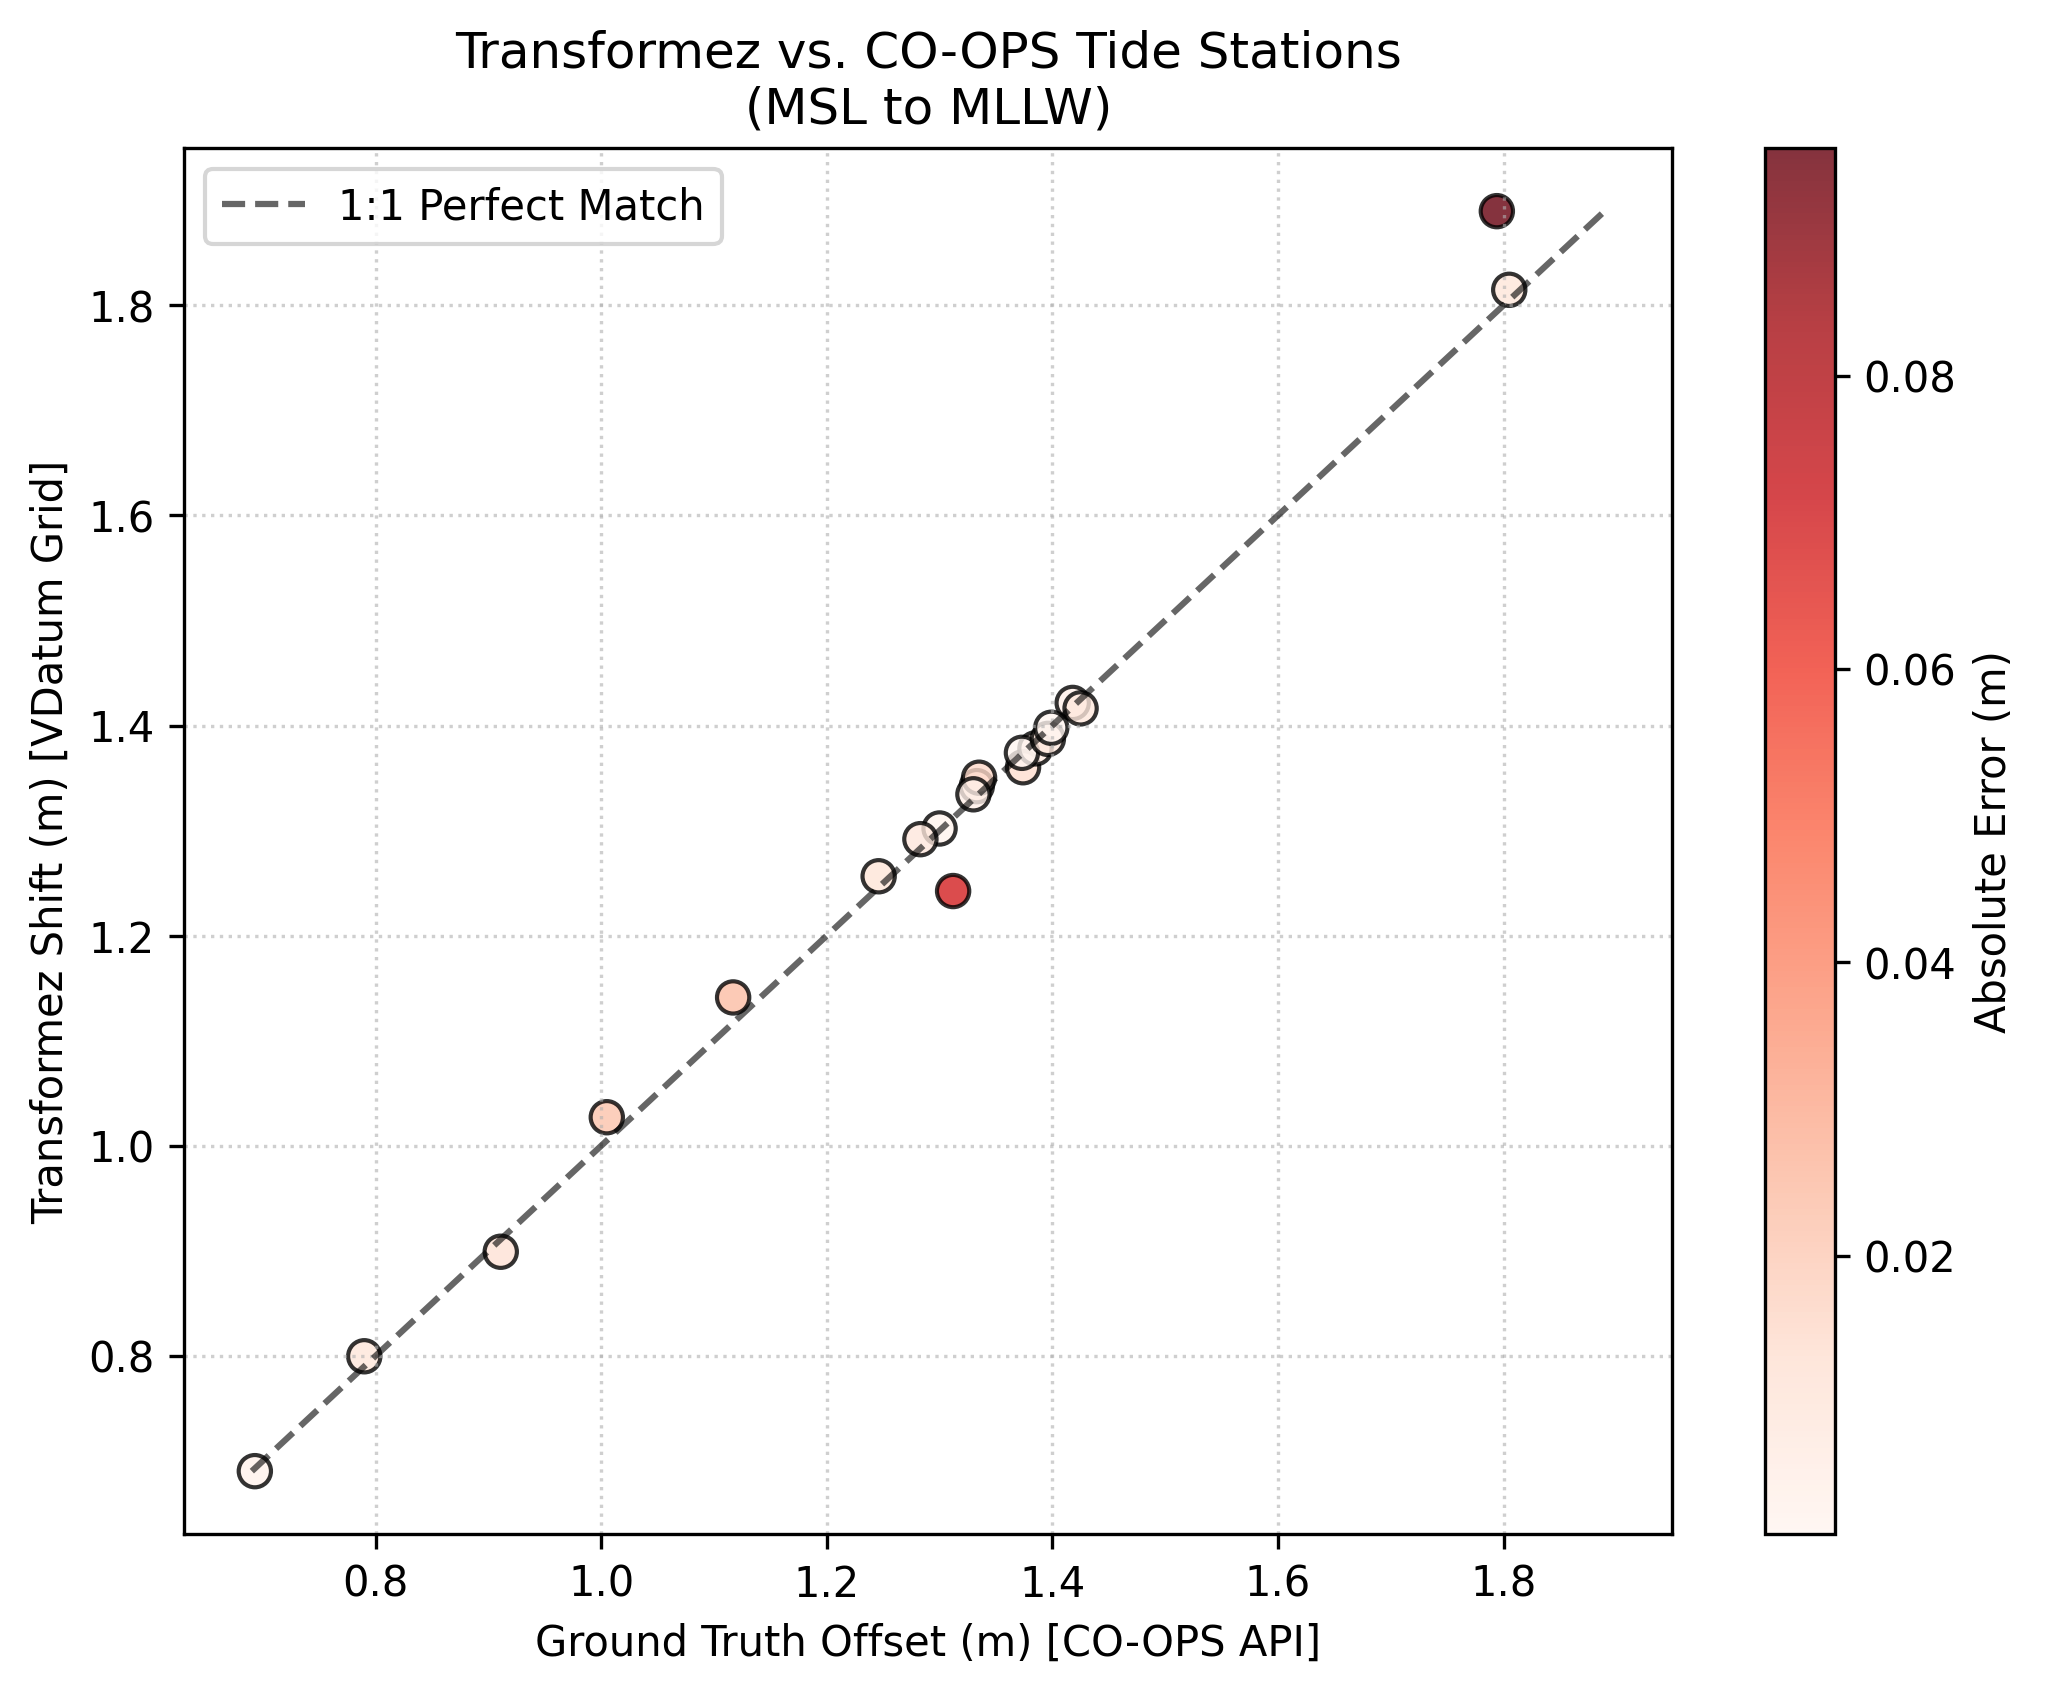
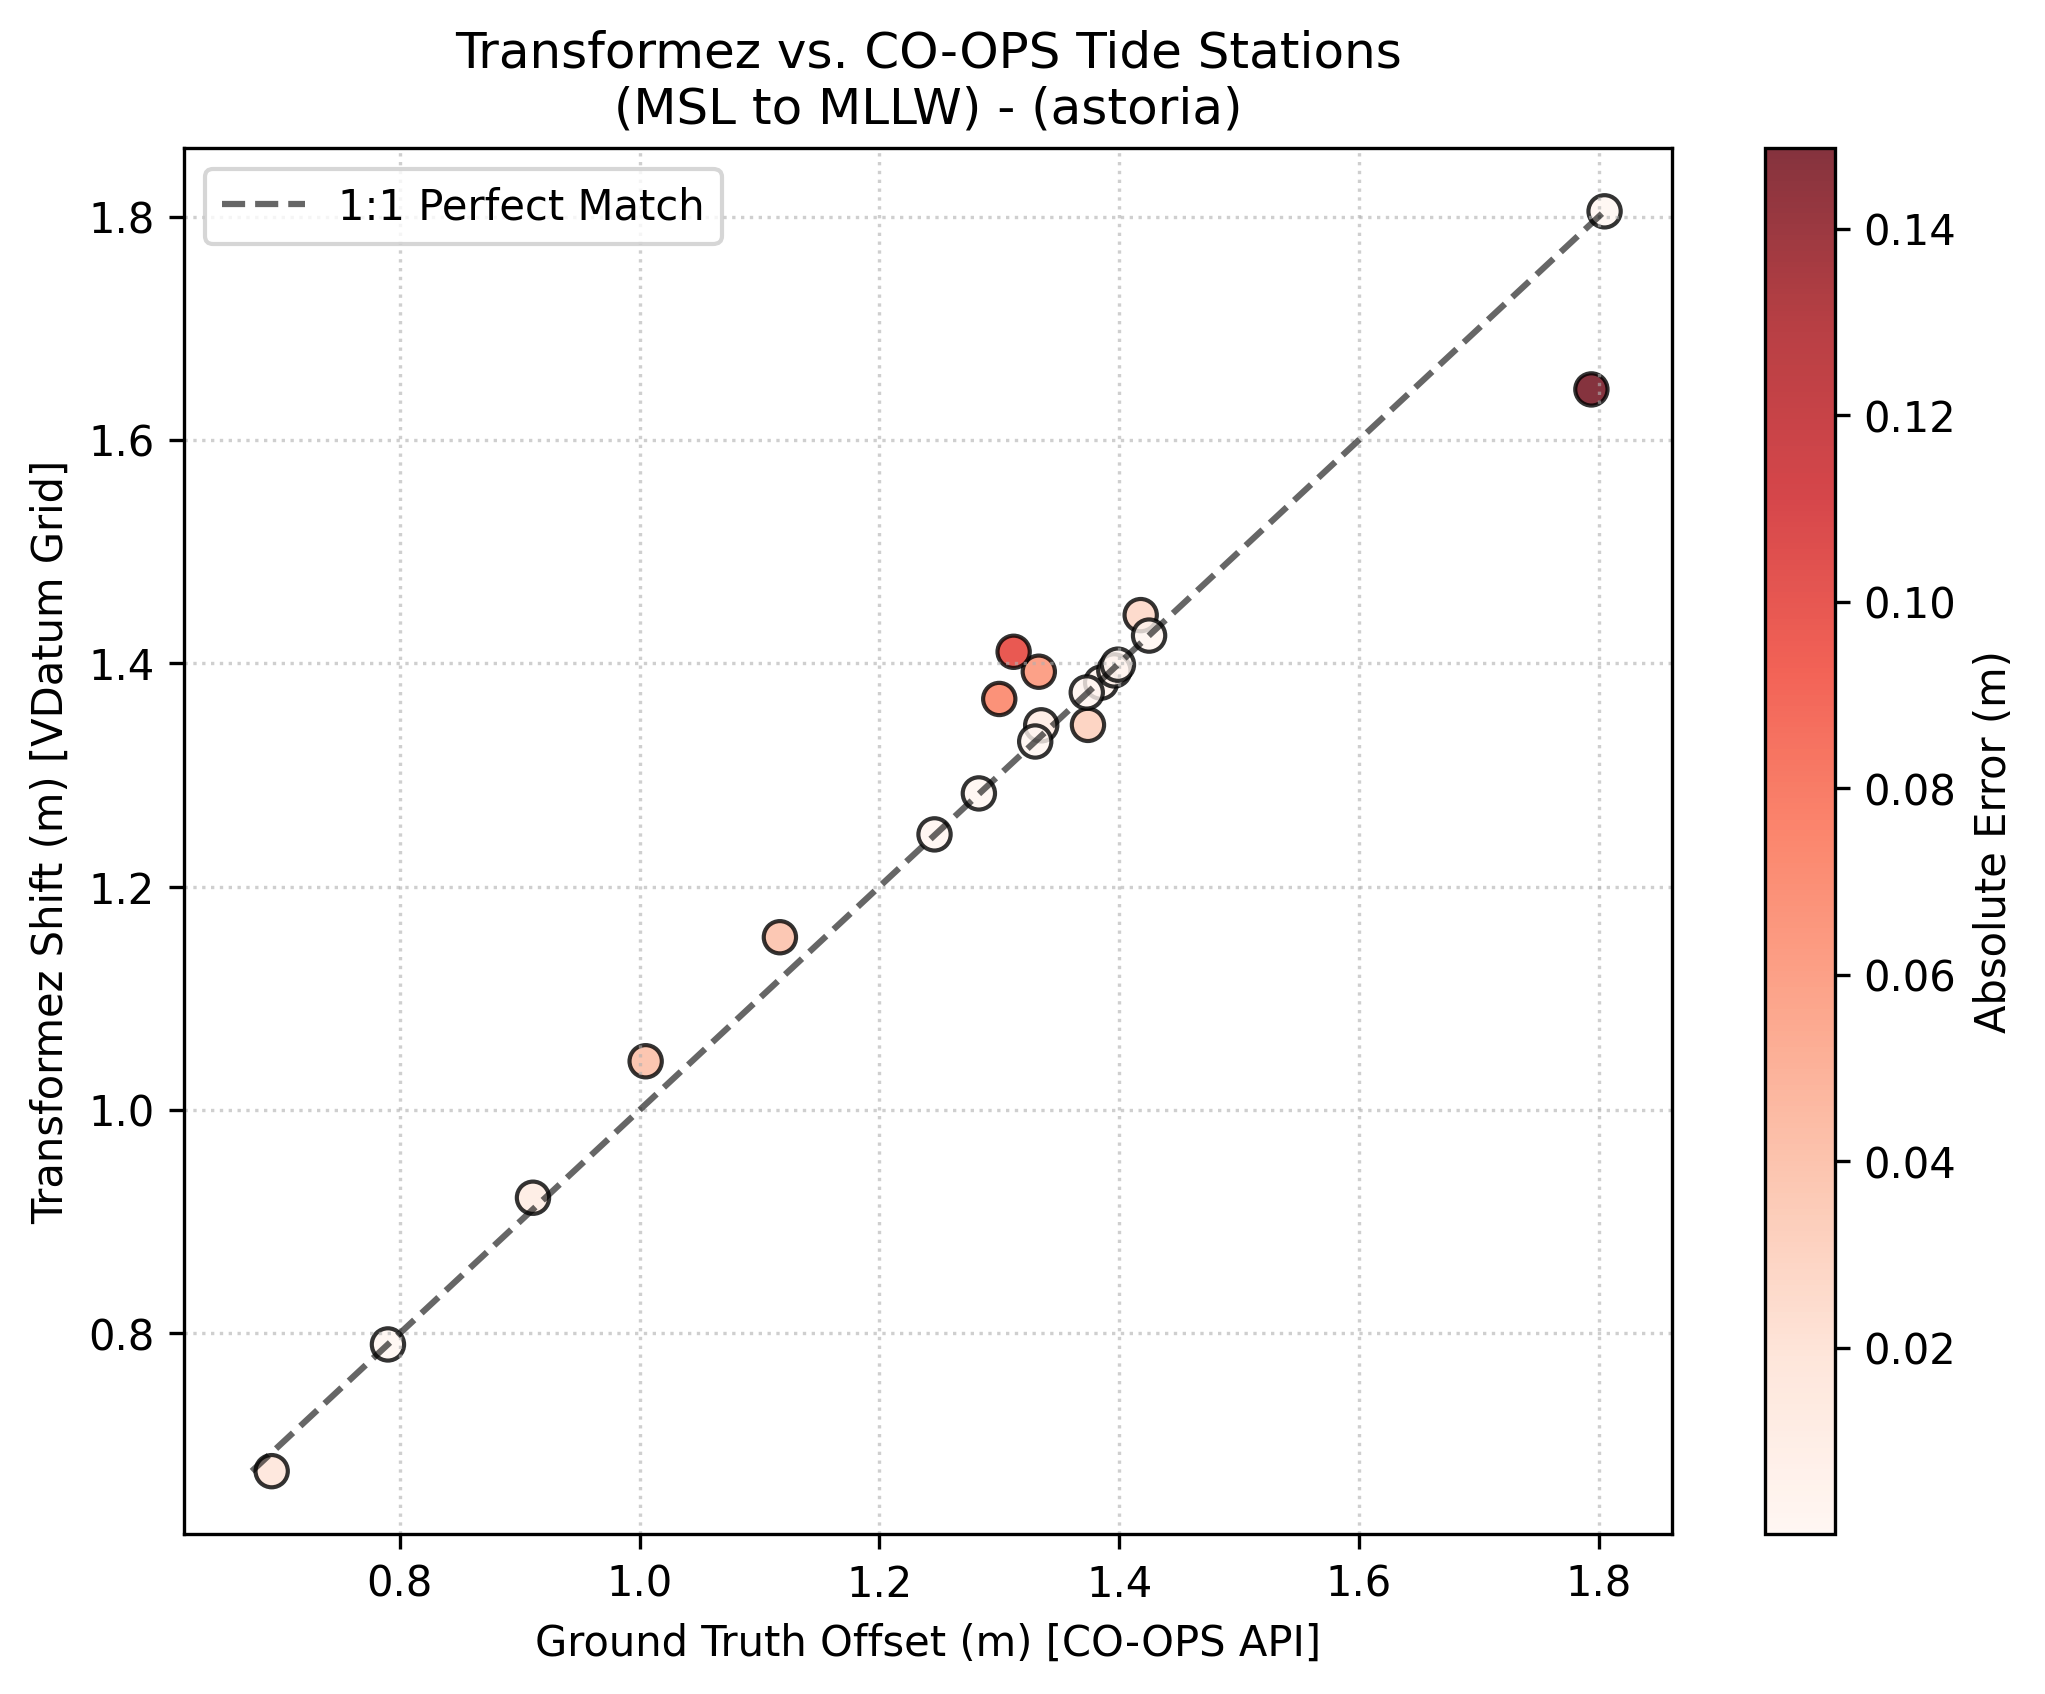
validation docs (#39)

diff --git a/docs/source/user_guide/validation.md b/docs/source/user_guide/validation.md
@@ -2,13 +2,13 @@
 
 Geodetic transformations require extreme precision. To ensure `transformez` is mathematically safe and sound for production pipelines, we continuously run it through a gauntlet of validation tests.
 
-We test against real-world tide gauges (ground truth), legacy geodetic software (engine-to-engine comparison), and global satellite models.
+We test against real-world tide gauges (ground truth), geodetic software (engine-to-engine comparison), and global satellite models.
 
 ## Test 1: Ground Truth (NOAA CO-OPS Tide Stations)
 
-The ultimate test of a hydrodynamic model is how well it matches physical water levels at the coast. In this test, we dynamically generate a transformation grid (MSL to MLLW) and query the resulting shifts against the official offsets reported by the **NOAA CO-OPS API**.
+In this test, we dynamically generate a transformation grid (MSL to MLLW) and query the resulting shifts against the official offsets reported by the **NOAA CO-OPS API**.
 
-We validated across three highly complex physical environments:
+We validated across three complex physical environments:
 
 1. **Chesapeake Bay:** A massive, winding estuary with complex inland tidal decay.
 2. **Astoria, OR:** A riverine environment heavily impacted by the Pacific Ocean.
@@ -16,9 +16,9 @@ We validated across three highly complex physical environments:
 
 | Region | RMSE | Mean Bias | Physical Challenge |
 | :--- | :--- | :--- | :--- |
-| **Chesapeake Bay** | ~ 0.0503 m | ~ -0.0018 m | Estuary Shoaling |
-| **Astoria, OR** | ~ 0.0279 m | ~ 0.0044 m | River Dynamics |
-| **Norton Sound, AK** | ~ 0.4638 m | ~ -0.6171 m | Shallow Shelf Friction |
+| **Chesapeake Bay** | ~ 0.0363 m | ~ -0.0012 m | Estuary Shoaling |
+| **Astoria, OR** | ~ 0.0462 m | ~ 0.0071 m | River Dynamics |
+| **Norton Sound, AK** | ~ 0.4638 m | ~ -0.4022 m | Shallow Shelf Friction/No VDatum coverage |
 
 ![Chesapeake Bay Validation](../_static/validation_stations_plot_chesapeake.png)
 ![Astoria Validation](../_static/validation_stations_plot_astoria.png)
@@ -35,32 +35,30 @@ We validated across three highly complex physical environments:
 <!--   <img src="../_static/validation_stations_plot_norton_sound.png" alt="Norton Sound Validation Scatter Plot" width="80%"> -->
 <!-- </p> -->
 
-*Notice how tightly the calculated grids adhere to the 1:1 perfect match line, even as the tidal amplitude grows.*
-
 ## Test 2: Engine vs. Engine (NOAA VDatum)
 
-While matching physical tide stations is critical, it is equally important that our internal processes (handling EPSG codes, unit scaling, and grid compositing) matches the official standard.
+In this test we tested `transformez` directly against the **NOAA VDatum Java CLI** by generating random offshore coordinates and translating them from NAVD88 to MHW using both engines.
 
-We tested `transformez` directly against the **NOAA VDatum Java CLI** by generating 100 random offshore coordinates in Tampa Bay, Florida, and translating them from NAVD88 to MLLW usingxs both engines.
 
-| Metric | Value |
-| :--- | :--- |
-| **RMSE** | < 0.001 m |
-| **Mean Difference** | 0.000 m |
-| **Points Tested** | 109 |
+| Region | RMSE | Mean Difference | Random Points |
+| :--- | :--- | :--- | :--- |
+| **Astoria, OR** | ~ 0.0002 m | ~ 0.0000 m | 59 |
+| **Tampa Bay, FL** | ~ 0.0011 m | ~ -0.0001 m |  85 |
 
-![VDatum Error Histogram](../_static/validation_vdatum_hist.png)
-<!-- <p align="center"> -->
-<!--   <img src="../_static/validation_vdatum_hist.png" alt="VDatum Error Histogram" width="70%"> -->
-<!-- </p> -->
+![VDatum Error Histogram](../_static/validation_vdatum_hist_astoria.png)
+![VDatum Error Histogram](../_static/validation_vdatum_hist_tampa.png)
 
-As the histogram shows, the difference between `transformez` and the legacy Java executable is effectively zero. The only minor deviations (in the millimeter range) are due to our use of modern bilinear interpolation near grid boundaries and floating point error.
+As the histogram shows, the difference between `transformez` and the VDatum Java executable is effectively zero. The only minor deviations (in the millimeter range) are due to our use of modern bilinear interpolation near grid boundaries and floating point error.
 
 ## Test 3: Global Reach (FES2014 Altimetry)
 
 Because `transformez` is designed for global DEMs (like ETOPO), we must validate its behavior outside the United States. When requested to transform tidal datums internationally, the engine falls back to the **FES2014** satellite altimetry model, applying deep-water symmetry where necessary.
 
-We compared our on-the-fly LAT-to-MSL calculations against the official historical records of three famous international tide gauges.
+In this test, we compared our on-the-fly LAT-to-MSL calculations against the official historical records of three famous international tide gauges.
+
+* [Newlyn, UK](https://ntslf.org/tides/datum)
+* [Sydney, AUS](https://nla.gov.au/nla.obj-3727981193/view)
+* [Brestm FR](https://diffusion.shom.fr/donnees/references-verticales/references-altimetriques-maritimes-ram.html)
 
 ![International Gauges](../_static/validation_international_bars.png)
 <!-- <p align="center"> -->
